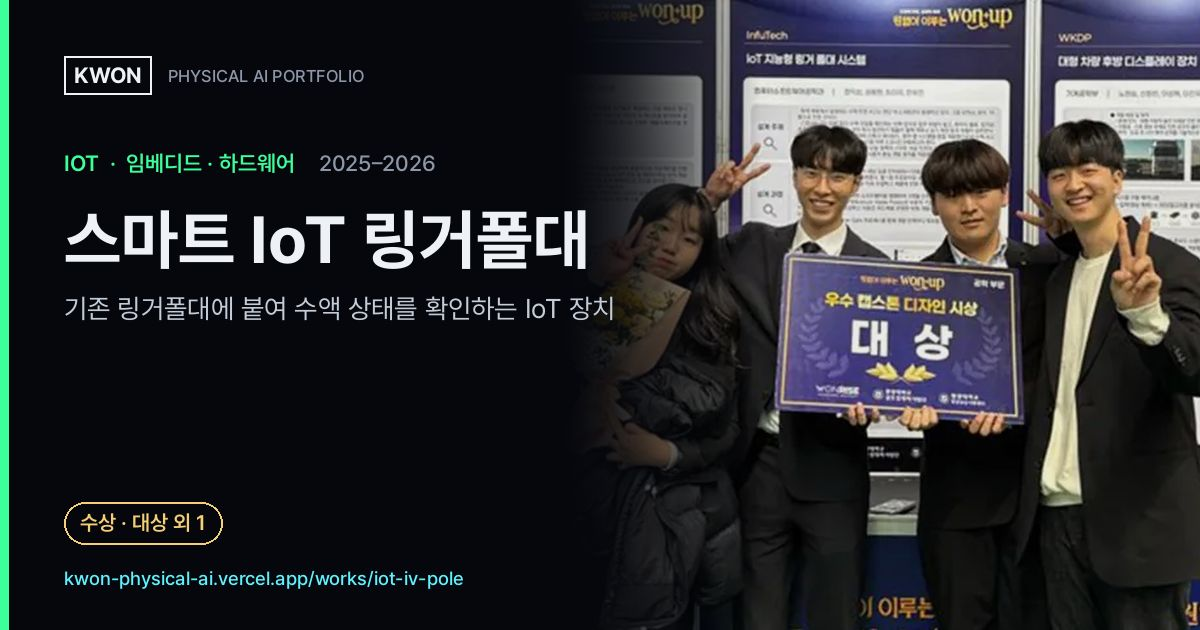
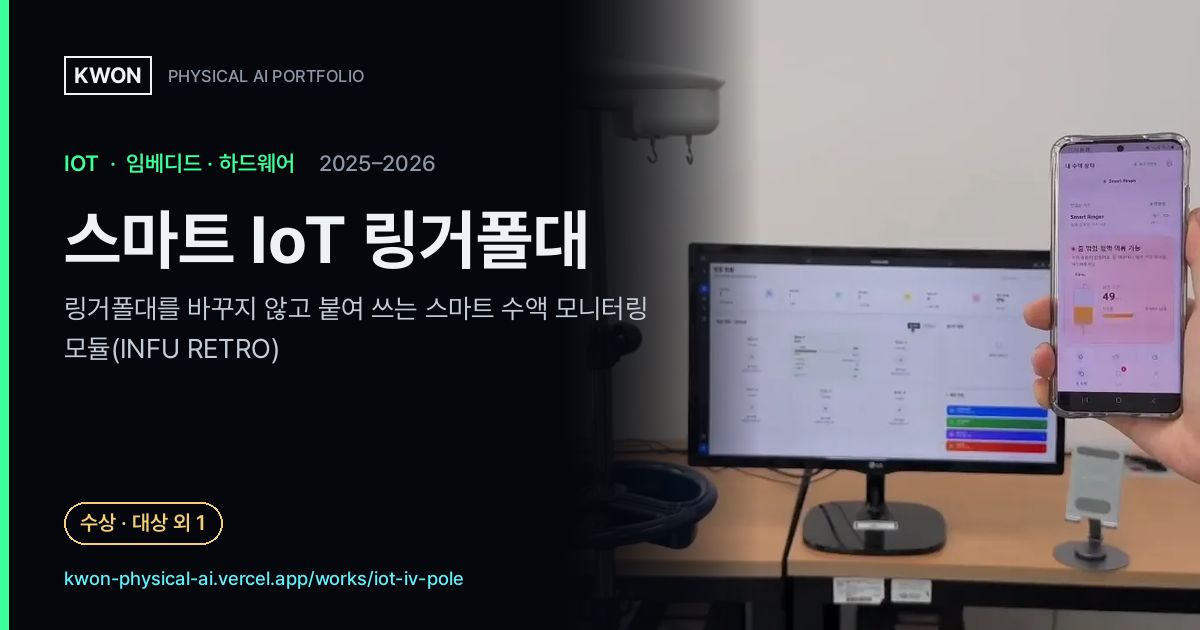
IV pole page from the INFUTECH 공학페스티벌 deck; résumé fixes
Smart IoT IV pole (/works/iot-iv-pole), rewritten from the team's 2026
공학페스티벌 deck: problem (43.6 patients per nurse, gaps between
rounds), 75-nurse interviews and survey, the retrofit INFU RETRO module,
the self-designed 60×35mm PCB (F/W · PCB lead), board bring-up, the
4×4 state-pattern CNN (659 parameters), mock clinical tests, station
dashboard and patient app, the capstone grand prize, two papers and
the pending patent, the tube-feeding follow-up and the 5,000만 원
purchase-intent agreement. New cover, 12 images, the demo film (shared
with /infutech/, with its own poster) and a new link-preview card.
Paper awards follow the certificates: 우수논문상 lists Kwon as a
co-author; the AIT 2026 Best Paper is a teammates' paper, so neither is
added to the award records. Team interviews are not counted as
personal skill evidence.

Latest-work data for the profile (profile.now) is added for the next
step; the 소개 screens themselves are unchanged in this commit.

Résumé review fixes: tab labels level with or without counts, 44px
tabs on all touch screens, lead clears the photo on screen only (print
keeps the old flow), tighter header on short desktops so the numbers
row fits at 1440×900.

Claude-Session: https://claude.ai/code/session_01Ca3TmxwhRtjsphueRocSn3

diff --git a/src/content.js b/src/content.js
@@ -50,6 +50,25 @@ export const profile = {
       { name: '사회복지 자원봉사인증관리', hours: 8, minutes: 0 },
     ],
   },
+  // 지금 하는 일 — INFUTECH(2026 공학페스티벌 발표 자료 · 유통사 협약서 · 논문 상장, 본인 제공) 그대로.
+  // AIT 2026 Best Paper는 팀원 논문(정익상 · 한우진 · 이완범) — 본인 수상으로 쓰지 않는다. 우수논문상은 공저(권용현 포함).
+  now: {
+    org: 'INFUTECH · 학생창업기업 인퓨테크',
+    role: '대표자 · F/W · PCB 개발 총괄',
+    product: 'INFU RETRO',
+    title: '링거폴대를 바꾸지 않고 붙이는 스마트 수액 모니터링',
+    lead: '간호사 1명이 43.6명을 돌보는 병동에서, 순회 사이의 수액 이상을 무게센서 하나와 경량 AI로 잡아 스테이션에 알립니다.',
+    project: 'iot-iv-pole',
+    photo: { src: M('projects/iot-iv-pole/07.webp'), thumb: M('projects/iot-iv-pole/07.thumb.webp'), w: 1280, h: 720, alt: 'INFU RETRO 시연 — 폴대 위 모듈 · 스테이션 대시보드 · 환자 앱' },
+    facts: [
+      { value: '60×35mm', label: '직접 설계한 PCB', sub: 'ESP32 · ADS1232 · 무게센서 하나' },
+      { value: '97.3%', label: '경량 CNN 이상 판별', sub: '파라미터 659개 · 모의 데이터' },
+      { value: '우수논문상', label: '2026 공동학술발표회', sub: '공저 · 2026.07' },
+      { value: '5,000만 원', label: '유통사 구매의향 협약', sub: '㈜에스케이엠엔엠 · 2026.10' },
+    ],
+    more: ['캡스톤디자인 대상 2025.11', '팀 논문 AIT 2026 Best Paper', '특허 출원 진행 중'],
+    team: '팀장 정익상 · 권용현 · 한우진 · 최이지 · 한별 — 지도교수 이완범',
+  },
   email: 'yhkwon2004@gmail.com',
   links: [
     { label: 'Email', value: 'yhkwon2004@gmail.com', url: 'mailto:yhkwon2004@gmail.com' },

diff --git a/src/styles/about.css b/src/styles/about.css
@@ -546,6 +546,14 @@
     margin-top: 56px;
   }
 }
+/* 손가락으로 누르는 화면(가로 휴대폰 · 태블릿)도 탭 높이 44px */
+@media (pointer: coarse) {
+  .pg-tabs a {
+    display: inline-flex;
+    align-items: center;
+    min-height: 44px;
+  }
+}
 /* 좁은 휴대폰: 보기 전환 탭이 한 줄에 — 손가락 높이(44px)는 지키고, 넘치면 옆으로 밀어 본다 */
 @media (max-width: 430px) {
   .pg-tabs {
@@ -624,14 +632,29 @@
   border-radius: 999px;
   font-size: 12.5px;
 }
-/* 소개 글은 사진 아래 전체 폭에서 — 사진 옆에 몇 글자만 걸치다 사진 아래로 꺾이지 않게 */
-.ab-lead {
-  clear: both;
+/* 소개 글은 사진 아래 전체 폭에서 — 사진 옆에 몇 글자만 걸치다 사진 아래로 꺾이지 않게(화면만 — A4에서는 사진 옆을 그대로 쓴다) */
+@media screen {
+  .ab-lead {
+    clear: both;
+  }
 }
 /* 첫 화면에 이름과 숫자 칸이 함께 들어오게 — 'Résumé' 글자는 조금 작게 */
 @media screen {
   .pg-about .works-title {
     font-size: clamp(56px, 8vw, 128px);
+  }
+}
+/* 낮은 데스크톱(높이 920 이하): 제목 · 위 여백을 더 줄여 숫자 칸까지 첫 화면에 */
+@media screen and (min-width: 821px) and (max-height: 920px) {
+  .pg-about .works-title {
+    font-size: clamp(56px, 6vw, 96px);
+  }
+  .pg-about .ab-head {
+    padding-bottom: 8px;
+  }
+  .pg-about .ab-id {
+    margin-top: 10px;
+    padding: 22px 0 20px;
   }
 }
 

diff --git a/src/pages/site.js b/src/pages/site.js
@@ -829,7 +829,8 @@ function detailPage(p) {
                 const short = /\/shorts\//.test(v.url);
                 return `<figure class="vid${short ? ' is-short' : ''}"><button type="button" class="yt" data-yt="${yt}" aria-label="${esc(v.caption || '영상')} 재생"><img src="https://i.ytimg.com/vi/${yt}/maxresdefault.jpg" srcset="https://i.ytimg.com/vi/${yt}/hqdefault.jpg 480w, https://i.ytimg.com/vi/${yt}/maxresdefault.jpg 1280w" sizes="${short ? '(max-width: 820px) 100vw, 420px' : '(max-width: 1240px) 92vw, 1114px'}" alt="" loading="lazy" /><span class="yt-play" aria-hidden="true">▶</span></button><figcaption>${esc(v.caption)}</figcaption></figure>`;
               }
-              return `<figure class="vid"><video src="${esc(v.url)}" ${p.cover ? `poster="${esc(p.cover.src)}"` : ''} controls muted playsinline preload="metadata"></video><figcaption>${esc(v.caption)}</figcaption></figure>`;
+              const poster = v.poster || p.cover?.src;
+              return `<figure class="vid"><video src="${esc(v.url)}" ${poster ? `poster="${esc(poster)}"` : ''} controls muted playsinline preload="metadata"></video><figcaption>${esc(v.caption)}</figcaption></figure>`;
             })
             .join('')}${alts
             .map((v) => `<p class="vid-alt"><a href="${esc(v.url)}" target="_blank" rel="noopener">${esc(v.caption.replace(/\s*\(같은 영상\)/, ''))} <span>같은 영상</span> <i aria-hidden="true">↗</i></a></p>`)

diff --git a/src/data/skills.js b/src/data/skills.js
@@ -117,7 +117,8 @@ const RAW = [
   { d: 'software', name: 'Git · GitHub 협업', en: 'Git', re: /GitHub/ },
 
   // ── 기획 · 창업 ──
-  { d: 'product', name: '현장 조사 · 인터뷰', en: 'User Research', re: /인터뷰|현장 조사|설문/ },
+  // 링거폴대의 간호사 인터뷰 · 설문은 팀 활동(본인 역할은 F/W · PCB) — 근거로 세지 않는다
+  { d: 'product', name: '현장 조사 · 인터뷰', en: 'User Research', re: /인터뷰|현장 조사|설문/, not: ['iot-iv-pole'] },
   { d: 'product', name: '시제품 제작', en: 'Prototyping', re: /시제품/ },
   { d: 'product', name: '업사이클 사업화', en: 'Upcycling', re: /업사이클|폐키보드|폐플라스틱/ },
   { d: 'product', name: '팀 리드 · 협업 조율', en: 'Team Lead', re: /팀장|모임을 직접 주선/ },

diff --git a/src/styles/premium.css b/src/styles/premium.css
@@ -1164,7 +1164,7 @@ html:not(.q-lite) .deck .r-card .card-media:has(> img.is-contain:is([data-kind='
 }
 .pg-tabs a {
   flex: none;
-  padding: 9px 18px;
+  padding: 10.5px 18px;
   white-space: nowrap;
   border-radius: 999px;
   font-family: var(--sans); /* 한글 탭 이름은 본문 글꼴로(고정폭 · 넓은 자간이면 글자가 흩어져 보인다) */
@@ -1179,6 +1179,7 @@ html:not(.q-lite) .deck .r-card .card-media:has(> img.is-contain:is([data-kind='
   font-family: var(--mono);
   font-size: 10px;
   font-weight: 400;
+  line-height: 0; /* 개수가 줄 높이를 밀어 올리지 않게 — 모든 탭 글자가 같은 높이에 */
   color: var(--muted);
 }
 .pg-tabs a:hover {

diff --git a/README.md b/README.md
@@ -53,6 +53,7 @@ npm run preview   # 빌드 결과 미리보기
 - **`/works`** — 전체 프로젝트 아카이브(사진 중심 그리드, 분야 필터: Drone · Mobility · Robotics · AI · IoT/H·W · Product · Software).
 - **`/works/<id>`** — 프로젝트 상세: 전면 사진 히어로 → 요약·역할·기간·도구·수상 → 함께한 기관(로고) → 상장 → 사진과 짝지은 스토리(문제 → 제작 → 검증 → 결과) → 갤러리(확대 보기) → 영상 → 이 프로젝트를 다룬 공식 보도 → 원문 링크 → 다음 프로젝트.
 - **상세 페이지 읽기 좋게**: 역할 · 팀 · 기간 · 도구는 '이름 | 값' 표 한 줄씩(긴 팀 · 도구 목록도 고르게), 화면 · 도표 표지는 제목을 한 단계 줄여 그림을 크게, 세로 표지(휴대폰 화면 · 세로 사진)는 넓은 화면에서 글 왼쪽 · 그림 오른쪽. 세로 사진 스토리는 사진 옆에 글, 사진이 없는 스토리는 두 줄 카드로 묶습니다. 갤러리는 16:9 두 장이 한 줄에, 휴대폰에서는 발표 자료 · 도면을 원래 비율 칸에(사진 하나뿐이면 열 폭으로). 영상 썸네일은 YouTube 고해상도(없으면 보통 크기로), Shorts는 세로 틀, 같은 영상의 다른 주소는 링크 한 줄. 보도 카드는 가운데로(네 장이면 2 × 2). 휴대폰 확대 보기에서는 그림을 누르면 2.4배로 커져 손가락으로 밀며 읽습니다(다시 누르면 원래대로). 스크롤하면 위 막대가 흐린 막으로 바뀌어 본문이 단추 뒤로 비치지 않고, 없는 프로젝트 주소는 '찾는 프로젝트가 없어 전체 목록을 보여 드려요' 알림과 함께 아카이브로.
+- **스마트 IoT 링거폴대(`/works/iot-iv-pole`)는 INFUTECH 2026 공학페스티벌 발표 자료로 다시 썼습니다**: 문제(간호사 1명당 43.6명 · 순회 사이 공백) → 현장(간호사 75명 인터뷰 · 설문) → 레트로핏 모듈 INFU RETRO → 자체 설계 PCB(본인 담당: F/W · PCB 개발 총괄) → 실물 검수 → 4×4 상태 패턴 경량 CNN(파라미터 659개) → 모의 임상 검증 → 대시보드 · 앱 → 캡스톤디자인 대상 → 논문 두 편 · 특허 출원 → 경관급식 → 유통사 구매의향 협약(5,000만 원, 공급자 인퓨테크 대표자 권용현). 시연 영상은 웹 발표와 같은 파일(`/infutech/media/demo.mp4`). 논문 상장은 저자를 그대로 적었습니다 — 우수논문상은 공저(권용현 포함), AIT 2026 Best Paper는 팀원 논문(정익상 · 한우진 · 이완범)이라 본인 수상 기록(`awards.json`)에는 넣지 않았습니다. 팀 인터뷰 · 설문은 본인 스킬 근거로 세지 않습니다(`skills.js`의 `not`).
 - 주소가 실제로 바뀌므로 링크 공유·새로고침·뒤로 가기가 동작합니다(Vercel `rewrites`). 상세 페이지의 '이 프로젝트 링크 공유'는 휴대폰에서 기기의 공유 창(카카오톡 · 메시지 등)을, 그 밖에서는 주소 복사를 엽니다.
 - **소개는 스크롤 없이 영화처럼**: 소개 장면은 두 화면(비트)으로 나뉘어 한 화면씩 바뀝니다 — 스크롤 · 화살표 · 위로 밀기 · 아래 칸(소개 · 학력·기록)으로 넘기고, 마지막 화면 다음은 다음 장면입니다. 장면에 다시 들어오면 늘 첫 화면부터. 자동 재생은 화면마다 7초 머뭅니다. 화면이 바뀔 때는 나가는 화면이 판째로 밀리며 사라진 뒤 들어오는 화면의 줄들이 차례로 들어서서, 두 화면이 겹쳐 보이지 않습니다. 판은 밝은 남색 유리, 글은 세 단계 밝기(제목 · 본문 · 보조)이고, 필름 패스의 **읽기 모드**(`uRead`)가 3D를 렌즈 초점을 뺀 듯 흐리고 밝게 띄워 글이 앞에 섭니다. 글 · 카드 크기는 화면에 맞춰 자랍니다(`--u`)(`src/ui/beats.js` · `src/styles/beats.css`).
 - **프로젝트 정리**: 드론과 모빌리티는 한 분야(드론 · 모빌리티), AirSim 딥러닝 자율주행과 CARLA 엔드투엔드 시뮬레이터는 한 프로젝트(`airsim-driving`, 예전 주소 `/works/carla-e2e`는 새 주소로)로 합쳤고, 노출하지 않을 기록은 `projects.json`에 `"hidden": true`(페달 블랙박스) — 아카이브 · 덱 · 수 · 링크 미리보기 · sitemap에서 모두 빠집니다.
